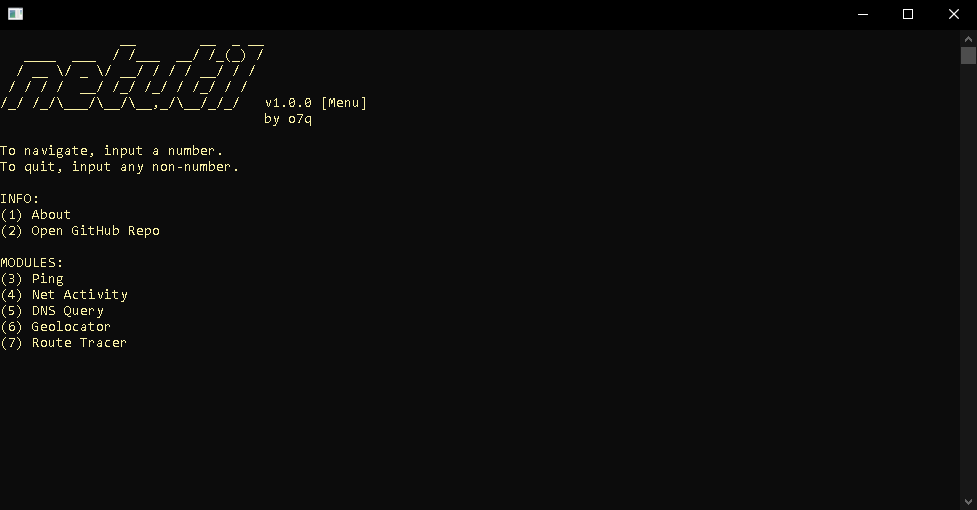
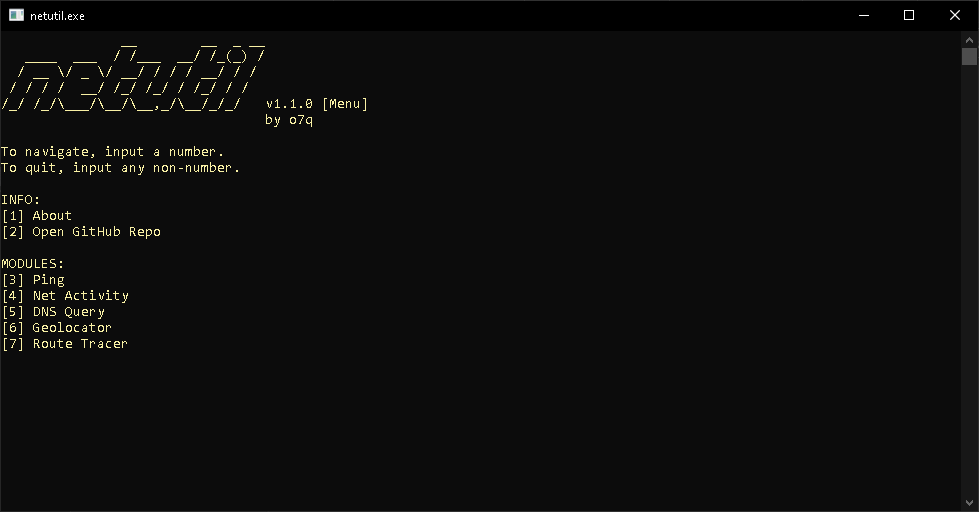
Minor release [v1.1.0]
- Added a session manager
- Updated the logging system
- Updated compiler scripts
- Now using the MIT license
- Removed licensing info in the "About" screen

diff --git a/README.md b/README.md
@@ -1,6 +1,6 @@
 <img src="assets/images/readmebanner.png"/>
 
-#### https://github.com/o7q/netutil/releases
+# Downloads: https://github.com/o7q/netutil/releases
 ### Welcome! netutil is a simple, command-line based, networking utility-box that executes pre-configured powershell scripts.
 
 <br>
